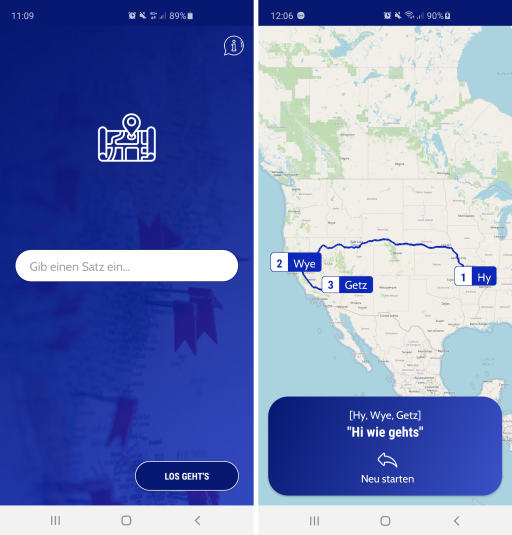
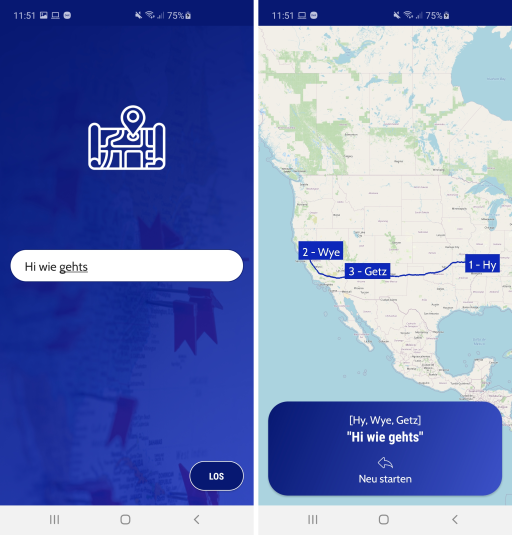
Anleitung Map Reactions: part 2 done

diff --git a/content/uebungsanleitungen/programmieren/sonstiges/android-map-reactions-app-2/index.md b/content/uebungsanleitungen/programmieren/sonstiges/android-map-reactions-app-2/index.md
@@ -1,13 +1,13 @@
 ---
 title: "Android Map Reactions App, Teil 2"
-description: "In dieser Übung programmierst du eine Android App in der man einen Satz eingeben kann, der dann als Route auf einer Karte angezeigt wird."
+description: "In dieser Übung verbesserst du die Map Reactions App unter anderem in den folgenden Punkten: Design, Stabilität und Interaktion mit dem Benutzer."
 level: 3
 img: "map_reactions_app.png"
 ---
 
 # Android Map Reactions App, Teil 2
 
-Im ersten Teil der Anleitung hast du eine Android App in Java programmiert. In dieser App kann man bereits einen Satz eingeben, der dann (phonetisch auf Orte übersetzt) als Route auf einer Karte angezeigt wird. Die Idee dazu basiert auf diesem [Comic Strip](https://xkcd.com/2260/). In diesem Teil werden einige Verbesserungen beschrieben, die du noch machen kannst. Diese beinhalten unter anderem das Styling der App, ein paar Verbesserungen des Codes selbst und die App sollte auch etwas schneller werden.
+Im [ersten Teil dieser Anleitung](/uebungsanleitungen/programmieren/sonstiges/android-map-reactions-app/) hast du eine Android App in Java programmiert. In dieser App kann man bereits einen Satz eingeben, der dann (phonetisch auf Orte übersetzt) als Route auf einer Karte angezeigt wird. Die Idee dazu basiert auf diesem [Comic Strip](https://xkcd.com/2260/). In diesem Teil werden einige Verbesserungen beschrieben, die du noch machen kannst. Diese beinhalten unter anderem das Styling der App, ein paar Verbesserungen des Codes selbst und die App sollte auch etwas stabiler werden.
 
 {{< imgblock "https://imgs.xkcd.com/comics/reaction_maps.png" "XKCD's Reaction Maps comic strip" >}}{{< /imgblock >}}
 
@@ -22,7 +22,7 @@ Im ersten Teil der Anleitung hast du eine Android App in Java programmiert. In d
 
 Der erste Schritt um die App zu verbessern, ist sie erstmal aufzuräumen. Dabei wirst du die Namen der Dateien verbessern und Teile, die nicht mehr benötigt werden, löschen. Befolge dazu die unten stehenden Schritte.
 
-1. Benenne als erstes die beiden Fragments so um, dass ihre Namen verraten, welche Funktion sie haben. Wenn euer Projekt größer wird, ist es so einfacher zu verstehen, was sich wo befindet. 
+1. Benenne als erstes die beiden Fragments so um, dass ihre Namen verraten, welche Funktion sie haben. Wenn ein Projekt größer wird, ist es so einfacher zu verstehen, was sich wo befindet. 
 
    1. Klicke mit der rechten Maustaste auf das `FirstFragment` und wähle "Refactor" -> "Rename..." aus.
    2. Ersetze den Namen "FirstFragment" mit "PhraseInputFragment". 
@@ -57,7 +57,7 @@ Der erste Schritt um die App zu verbessern, ist sie erstmal aufzuräumen. Dabei 
 
 ## Aktuellen Status in der Info-TextView anzeigen
 
-Derzeit wird die Info-`TextView` zum Anzeigen der Phrase verwendet. Die `TextView` soll nun den Text "Wird geladen..." anzeigen während die Route geladen wird. Außerdem soll überprüft werden, ob überhaupt eine Route geladen wurde bevor die Karte angezeigt wird. Falls nicht soll ein Fehler angezeigt werden. Wenn du möchtest, ist das eine gute Aufgabe, die du allein probieren kannst. Lies also hier nicht weiter und versuche das Problem selbst zu lösen. Meine Lösung ist in den folgenden Schritten beschrieben.
+Derzeit wird die Info-`TextView` zum Anzeigen der Phrase verwendet. Die `TextView` soll nun den Text "Wird geladen..." anzeigen, während die Route geladen wird. Außerdem soll überprüft werden, ob überhaupt eine Route geladen wurde bevor die Karte angezeigt wird. Falls nicht soll ein Fehler angezeigt werden. Wenn du möchtest, ist das eine gute Aufgabe, die du allein probieren kannst. Lies also hier nicht weiter und versuche das Problem selbst zu lösen. Meine Lösung ist in den folgenden Schritten beschrieben.
 
 1. Öffne die Datei `res/values/strings.xml` und füge die beiden folgenden Strings hinzu
 ```xml
@@ -100,13 +100,13 @@ if (StringUtils.isBlank(phrase)) {
 
 ## Asynchroner HTTP Request
 
-Wie bereits [im ersten Teil der Anleitung](/uebungsanleitungen/programmieren/sonstiges/android-map-reactions-app/), setzt die Methode `roadManager.getRoad(wayPoints);` einen HTTP Request am Main Thread ab. Das bedeutet, dass diese Methode den Main Thread sehr lange blockieren kann, falls es Probleme beim Request geben sollte. Deshalb waren auch die folgenden beiden Zeilen nötig.
+Wie bereits [im ersten Teil der Anleitung](/uebungsanleitungen/programmieren/sonstiges/android-map-reactions-app/) beschrieben, setzt die Methode `roadManager.getRoad(wayPoints);` einen HTTP Request am Main Thread ab. Das bedeutet, dass diese Methode den Main Thread, und somit die gesamte App, blockieren kann, falls es Probleme beim Request geben sollte. Deshalb waren auch die folgenden beiden Zeilen nötig.
 ```java
 StrictMode.ThreadPolicy policy = new StrictMode.ThreadPolicy.Builder().permitAll().build();
 StrictMode.setThreadPolicy(policy);
 ```
 
-Diese Zeilen werden am Ende dieses Abschnitts nicht mehr nötig sein, da du den Request in einem anderen Thread absetzen und das Ergebnis mithilfe eines Callbacks zurückgeben wirst. Befolge die folgenden Schritte, um dieses Ziel zu erreichen.
+Diese Zeilen werden am Ende dieses Abschnitts nicht mehr nötig sein, da du den Request in einem anderen Thread absetzen und das Ergebnis mithilfe eines Callbacks zurückgeben wirst. Befolge die nächsten Schritte, um dieses Ziel zu erreichen.
 
 1. Erstelle ein neues Package `util`.
 
@@ -214,7 +214,7 @@ stringRequest.setRetryPolicy(new DefaultRetryPolicy(
 	1 // Mit dieser Zahl wird das Timeout bei jedem neuen Versuch multipliziert
 ));
 ```
-Um dem oben beschriebenen "cold start" vorzubeugen, kann man zum Beispiel schon beim Start der App einen leeren Request an die Serverless Function schicken um sie zu starten. Das ist wieder ein Task, den du allein probieren kannst, wenn du möchtest. Setze dazu im `PhraseInputFragment` einen Request zum Server ab, bei dem du das Ergebnis ignorierst. Im folgenden ist beschrieben, wie ich es gelöst habe.
+Um dem oben beschriebenen "cold start" vorzubeugen, kann man zum Beispiel schon beim Start der App einen leeren Request an die Serverless Function schicken um sie zu starten. Das ist wieder eine Aufgabe, den du allein probieren kannst, wenn du möchtest. Setze dazu im `PhraseInputFragment` einen Request zum Server ab, bei dem du das Ergebnis ignorierst. Im folgenden ist beschrieben, wie ich es gelöst habe.
 
 1. Öffne das `PhraseInputFragment.java`.
 
@@ -266,7 +266,7 @@ Die App erfüllt nun alle Ansprüche an die Funktionalität, das Design lässt a
 
 {{< imgblock "img/map_reactions_app.png" >}}{{< /imgblock >}}
 
-Beim betrachten der App, wird schnell klar, das Blau die Hauptfarbe ist. Wenn du die Datei `res/values/colors.xml` öffnest, siehst du, dass es dort drei Farben gibt. Und zwar einmal die `colorPrimary`, die Hauptfarbe der App. Zusätzlich gibt es noch die `colorPrimaryDark`, welche etwas dunkler als die `colorPrimary` sein sollte, diese wird zum Beispiel für die Hintergrundfarbe der Notification Bar verwendet. Zusätzlich gibt es noch die `colorAccent`, welche einen Kontrast zur `colorPrimary` darstellen soll und zum Beispiel für wichtige Elemente wie den `Floating Action Button` verwendet wird. Passe die Farben mit den folgenden Schritten an.
+Beim betrachten der App, wird schnell klar, das Blau die Hauptfarbe ist. Wenn du die Datei `res/values/colors.xml` öffnest, siehst du, dass es dort drei Farben gibt. Und zwar einmal die `colorPrimary`, die Hauptfarbe der App. Zusätzlich gibt es noch die `colorPrimaryDark`, welche etwas dunkler als die `colorPrimary` sein sollte, diese wird zum Beispiel für die Hintergrundfarbe der Notification Bar verwendet. Zusätzlich gibt es noch die `colorAccent`, welche einen Kontrast zur `colorPrimary` darstellen soll und zum Beispiel für wichtige Elemente wie einen `Floating Action Button` verwendet wird. Passe die Farben mit den folgenden Schritten an.
 
 1. In dieser App brauchst du die `colorAccent` nicht, deshalb kannst du sie löschen.
 
@@ -281,9 +281,9 @@ Beim betrachten der App, wird schnell klar, das Blau die Hauptfarbe ist. Wenn du
 
 #### Hintergrund
 
-Der Hintergrund des `PhraseInputFragment` besteht aus zwei Teilen. Zum einen enthält er ein Bild mit einer Karte und zum anderen einen blauen Farbverlauf, der nach rechts unten hin immer heller und transparenter wird, damit man mehr von der Karte sieht. Befolge diese Schritte um den Hintergrund so zu gestalten.
+Der Hintergrund des `PhraseInputFragment` besteht aus zwei Teilen. Zum einen enthält er ein Bild mit einer Karte und zum anderen einen blauen Farbverlauf, der nach rechts unten hin immer heller und transparenter wird, damit man mehr vom Hintergrundbild sieht. Befolge diese Schritte um den Hintergrund so zu gestalten.
 
-1. Das Hintergrundbild ist [hier](https://unsplash.com/photos/4Zk45jNyQS4) auf [Unsplash](https://unsplash.com/) verfügbar. Ich habe das Bild bereits heruntergeladen, zugeschnitten und an verschiedene Auflösungen angepasst. In Android kann man Bilder und Grafiken nämlich in verschiedenen Größen zur Verfügung stellen und das Smartphone wählt dann das richtige Bild aus. Lade dir die [zip Datei](https://coderdojo-map-reactions.s3.eu-central-1.amazonaws.com/phrase_input_background.zip) herunter und extrahiere sie in deinem Projektordner unter `res`.
+1. Das Hintergrundbild ist [hier](https://unsplash.com/photos/4Zk45jNyQS4) auf [Unsplash](https://unsplash.com/) verfügbar. Ich habe das Bild bereits heruntergeladen, zugeschnitten und an verschiedene Auflösungen angepasst. In Android kann man Bilder und Grafiken nämlich in verschiedenen Größen zur Verfügung stellen und das Smartphone wählt dann das richtige Bild aus. Lade dir die [zip Datei](https://coderdojo-map-reactions.s3.eu-central-1.amazonaws.com/phrase_input_background.zip) herunter und extrahiere sie in deinem Projektordner unter `main/res`.
 
 2. Öffne das Layout `fragment_phrase_input.xml` und wähle im `Component Tree` das `ConstraintLayout` aus. 
 
@@ -318,7 +318,7 @@ Der Hintergrund des `PhraseInputFragment` besteht aus zwei Teilen. Zum einen ent
 
 11. Suche in der Attributliste wieder nach "background" und setze den Wert "@drawable/background_gradient".
 
-12. Ziehe die `view` im `Component Tree` über den `button_go`,  damit sie in den Hintergrund rückt.
+12. Ziehe die `View` im `Component Tree` über den `button_go`,  damit sie in den Hintergrund rückt.
 
 #### UI Elemente
 
@@ -347,7 +347,7 @@ Jetzt ist der Hintergrund soweit fertig. Da das `EditText` zum Eingeben des Satz
 		android:topRightRadius="32dp" />
 </shape>
 ```
-3.  Button soll genau gleich aussehen, nur mit umgekehrten Farben. Erstelle deshalb gleich ein zweites `Drawable Resource File` mit dem Namen `button_background` und dem folgenden Inhalt.
+3. Der Hintergrund des `Button`s soll genau gleich aussehen, nur mit umgekehrten Farben. Erstelle deshalb gleich ein zweites `Drawable Resource File` mit dem Namen `button_background` und dem folgenden Inhalt.
 ```xml
 <?xml version="1.0" encoding="utf-8"?>
 <!-- Definiert die Form, also ein Rechteck -->
@@ -381,19 +381,19 @@ Jetzt ist der Hintergrund soweit fertig. Da das `EditText` zum Eingeben des Satz
 
 10. Lege im `Constraint Widget` unten einen Rahmen von 24 fest.
 
-11. Lade dir [diesen Icon](https://www.flaticon.com/free-icon/placeholder_2942933?term=map&page=1&position=41) von [flaticon](https://ww.flaticon.com) als "PNG" herunter und kopiere dir den "Attribution Link", in diesem Fall "<div>Icons made by <a href="https://www.flaticon.com/free-icon/placeholder_2942933?term=map&page=1&position=41" title="surang">surang</a> from <a href="https://www.flaticon.com/" title="Flaticon">www.flaticon.com</a></div>" in eine Text-Datei. Diese Information wirst du am Ende der Anleitung noch in die App einbauen.
+11. Lade dir [diesen Icon](https://www.flaticon.com/free-icon/placeholder_2942933?term=map&page=1&position=41) von [flaticon](https://ww.flaticon.com) als "PNG" herunter und kopiere dir den "Attribution Link", in diesem Fall `<div>Icons made by <a href="https://www.flaticon.com/free-icon/placeholder_2942933?term=map&page=1&position=41" title="surang">surang</a> from <a href="https://www.flaticon.com/" title="Flaticon">www.flaticon.com</a></div>`, in eine Text-Datei. 
 
-> *ACHTUNG: Solltest du die App irgendwo veröffentlichen, musst du unbedingt die Information, von wo die Icons sind in den Credits der App und in der Info des Playstores anzeigen!* 
+	> *ACHTUNG: Solltest du die App veröffentlichen, musst du unbedingt die Information, von wo die Icons sind, in den Credits der App und in der Beschreibung der App im PlayStore anzeigen!* 
 
 12. Gehe auf die Seite https://romannurik.github.io/AndroidAssetStudio/ und klicke auf "Generic Icon Generator".
 
 13. Klicke links bei "Source" auf "Image" und lade den soeben heruntergeladenen Icon hoch.
 
-14. Wähle die folgendne Werte aus und klicke dann rechts oben auf "Download".
+14. Wähle die folgenden Werte aus und klicke dann rechts oben auf "Download".
 	- Trim whitespace: Trim
 	- Padding: 0%
 	- Asset size: 128dp
-	- Asset padding: 0%
+	- Asset padding: 0dp
 	- Color: Weiß
 	- Name: "ic_map"
 
@@ -420,7 +420,7 @@ Auch die Schrift ist ein wichtiger Punkt, um das Design einer App zu verbessern.
 
 3. Klicke auf den Pfeil rechts neben "fontFamily" und klicke ganz unten auf "More Fonts..."
 
-4. Suche nach "Cabin" und wähle diese Schrift mit einem Klick aus und klicke auf "OK".
+4. Suche nach "Cabin", wähle diese Schrift mit einem Klick aus und klicke auf "OK".
 
 5. Wähle nun den `Button` aus, suche wieder nach "fontFamily" und klicke auf "More Fonts...".
 
@@ -432,7 +432,7 @@ Nun hast du das Styling des `PhraseInputFragment` abgeschlossen und es ist an de
 
 #### Info-Box
 
-Die erste Verbesserung, die du hier machen kannst, ist es die Info-`TextView` durch eine ganze Info-Box zu ersetzen, die mehr Informationen zur Route, aber auch einen "Neu starten" -`Button` enthält. Befolge dazu die unten stehenden Schritte.
+Die erste Verbesserung, die du hier machen kannst, ist  die Info-`TextView` durch eine ganze Info-Box zu ersetzen, die mehr Informationen zur Route, aber auch einen "Neu starten" -`Button` enthält. Befolge dazu die unten stehenden Schritte.
 
 1. Öffne das Layout `fragment_map.xml`.
 
@@ -571,11 +571,42 @@ buttonTryAgain.setOnClickListener(new View.OnClickListener() {
 ```
 
 #### Karte
+Als letzten Schritt Kannst du noch das Design der Marker und der Route auf der Karte verbessern. Öffne dazu das `MapFragment.java` und befolge die folgenden Schritte. 
 
- 
+1. Suche die Zeile `Polyline roadOverlay = RoadManager.buildRoadOverlay(road, Color.BLACK, 6);` und ersetze `Color.BLACK` mit `getResources().getColor(R.color.colorPrimary);` um die Route in der Hauptfarbe der App darzustellen. Setze außerdem die Breite der Linie (also den nächsten Parameter, derzeit  `6`) auf `8`, um die Route etwas breiter darzustellen.
 
-### "Attribution Links" für die Icons und das Hintergrundbild anzeigen
+2. Nun sieht man besonders gut, dass die Route über den Markern gezeichnet wird. Befolge die unten stehenden Schritte, um die Marker über der Route zu zeichnen.
 
+	1. Füge die folgende Zeile unter der Zeile `ArrayList<GeoPoint> geoPoints = new ArrayList<>();` und über der `for`-Schleife ein.
+
+```java
+// Erstellt eine Liste mit SpeechBalloonOverlay Objekten. Diese wird später mit den Markern befüllt.
+final List<SpeechBalloonOverlay> markers = new ArrayList<>();
+```
+	2. Ersetze die Zeile `mapView.getOverlays().add(textOverlay);` mit der folgenden Zeile.
+```java
+// Fügt das Overlay zur Liste der Marker hinzu
+markers.add(textOverlay);
+```
+	3. Füge den folgenden Code unter der Zeile ` mapView.zoomToBoundingBox(roadOverlay.getBounds(), true, 150);` ein, um die Marker erst nach der Route/Straße zu zeichnen.
+```java
+// Zeigt die Marker auf der Karte an
+mapView.getOverlays().addAll(markers);
+```
+3. Ändere nun die Hintergrundfarbe der Marker, indem du in der  `for`-Schleife in der Zeile `backgroundPaint.setColor(Color.BLACK)` den Parameter `Color.BLACK` auf `getResources().getColor(R.color.colorPrimary)` änderst.
+
+4. Ändere mit der folgenden Zeile die Schriftart des Textes.
+```java
+textPaint.setTypeface(ResourcesCompat.getFont(getContext(), R.font.cabin));
+```
+
+Gratuliere! Nun hast du auch diese Anleitung abgeschlossen und deine App sollte nun in etwa so aussehen. Du kannst natürlich noch selbst versuchen die App weiterzuentwickeln. Dabei kannst du neue Funktionen hinzufügen, die Farben der App ändern, sie in verschiedene Sprachen übersetzen, oder was dir sonst noch so einfällt. Deiner Kreativität sind hier keine Grenzen gesetzt ;-).
+
+{{< imgblock "img/map_reactions_app.png" >}}{{< /imgblock >}}
+
+## "Attribution Links" für die Icons und das Hintergrundbild
+
+Solltest du die App veröffentlichen, musst du unbedingt die Information, von wo die Icons und das Hintergrundbild sind, in den Credits der App und in der Beschreibung der App im PlayStore anzeigen! Unten sind noch einmal die "Attribution Links", also die Links, die angezeigt werden müssen, aufgelistet.
 
 <span>Photo by <a href="https://unsplash.com/@timowielink?utm_source=unsplash&amp;utm_medium=referral&amp;utm_content=creditCopyText">Timo Wielink</a> on <a href="https://unsplash.com/?utm_source=unsplash&amp;utm_medium=referral&amp;utm_content=creditCopyText">Unsplash</a></span>
 
@@ -583,9 +614,6 @@ buttonTryAgain.setOnClickListener(new View.OnClickListener() {
 
 <div>Icons made by <a href="https://www.flaticon.com/free-icon/reply_481675?term=back&page=1&position=43" title="Those Icons">Those Icons</a> from <a href="https://www.flaticon.com/" title="Flaticon">www.flaticon.com</a></div>
 
-
 ## Ressourcen
 
-[Der vollständige Code für diese App](https://github.com/KatharinaSick/coderdojo-anleitung-map-reactions-app/tree/bonus)
-
-TODO link zu app icons!!
+[Der vollständige Code für diese App](https://github.com/KatharinaSick/coderdojo-anleitung-map-reactions-app)

diff --git a/content/uebungsanleitungen/programmieren/sonstiges/android-map-reactions-app/index.md b/content/uebungsanleitungen/programmieren/sonstiges/android-map-reactions-app/index.md
@@ -13,9 +13,9 @@ In dieser Übung programmierst du eine Android App in Java. In dieser App kann m
 
 ## Voraussetzungen
 
-- Etwas Programmiererfahrung.
-- Ein Smartphone mit Android 5.0 oder höher ([So findest du die Android Version deines Smartphones](https://support.google.com/android/answer/7680439?hl=de)). Alternativ kannst du auch einen [Emulator](https://developer.android.com/studio/run/emulator) verwenden.
-- Ein Kabel um dein Smartphone mit dem Computer zu verbinden (falls du dein Smartphone verwendest).
+- Etwas Programmiererfahrung
+- Ein Smartphone mit Android 5.0 oder höher ([So findest du die Android Version deines Smartphones](https://support.google.com/android/answer/7680439?hl=de)). Alternativ kannst du auch einen [Emulator](https://developer.android.com/studio/run/emulator) verwenden
+- Ein Kabel um dein Smartphone mit dem Computer zu verbinden (falls du dein Smartphone verwendest)
 - [Android Studio](https://developer.android.com/studio/install)
 
 ## App erstellen und ausführen
@@ -678,10 +678,10 @@ mapView.zoomToBoundingBox(roadOverlay.getBounds(), true, 150, 6.0, 100L);
 mapView.invalidate();
 ```
 
-Gratuliere! Nun hast du den ersten der Anleitung geschafft und solltest eine Karte mit deiner Route sehen. Wenn du deine App noch weiter verbessern möchtest, sieh dir doch den [zweiten Teil der Anleitung](/uebungsanleitungen/programmieren/sonstiges/android-map-reactions-app-2/) an. Dieser beinhaltet unter anderem das Styling der App, ein paar Performance Verbesserungen und noch ein paar Punkte, die man einfach besser machen kann.
+Gratuliere! Nun hast du den ersten der Anleitung geschafft und solltest eine Karte mit deiner Route sehen. Wenn du deine App noch weiter verbessern möchtest, sieh dir doch den [zweiten Teil der Anleitung](/uebungsanleitungen/programmieren/sonstiges/android-map-reactions-app-2/) an. Dieser beinhaltet unter anderem das Styling der App, ein paar Verbesserungen zur Stabilität der App und noch ein paar Punkte, die man einfach besser machen kann.
 
 {{< imgblock "img/basic_map_reactions_app.png" >}}{{< /imgblock >}}
 
 ## Ressourcen
 
-[Der vollständige Code für diese App](https://github.com/KatharinaSick/coderdojo-anleitung-map-reactions-app)
+[Der vollständige Code für diese App](https://github.com/KatharinaSick/coderdojo-anleitung-map-reactions-app/tree/teil1)
